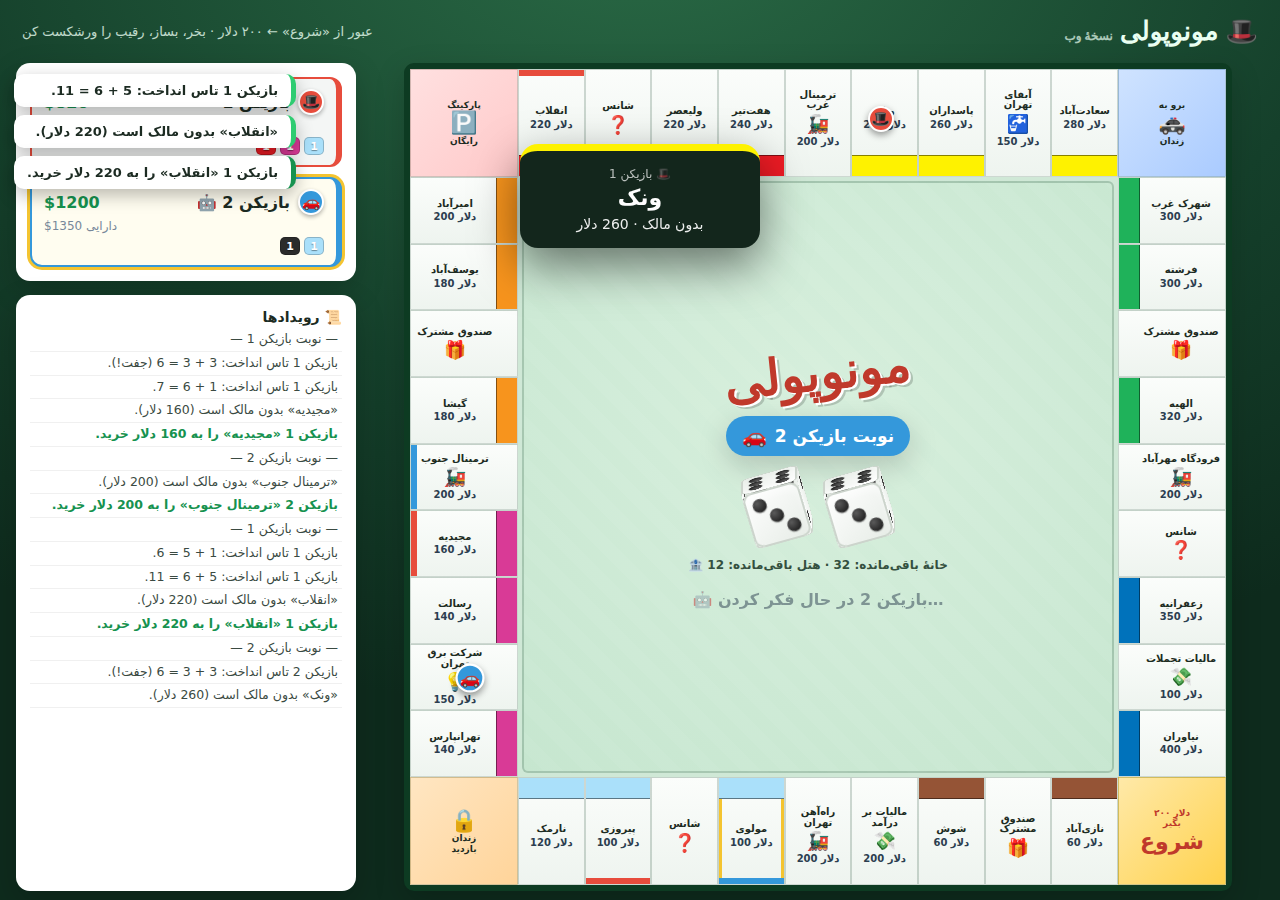
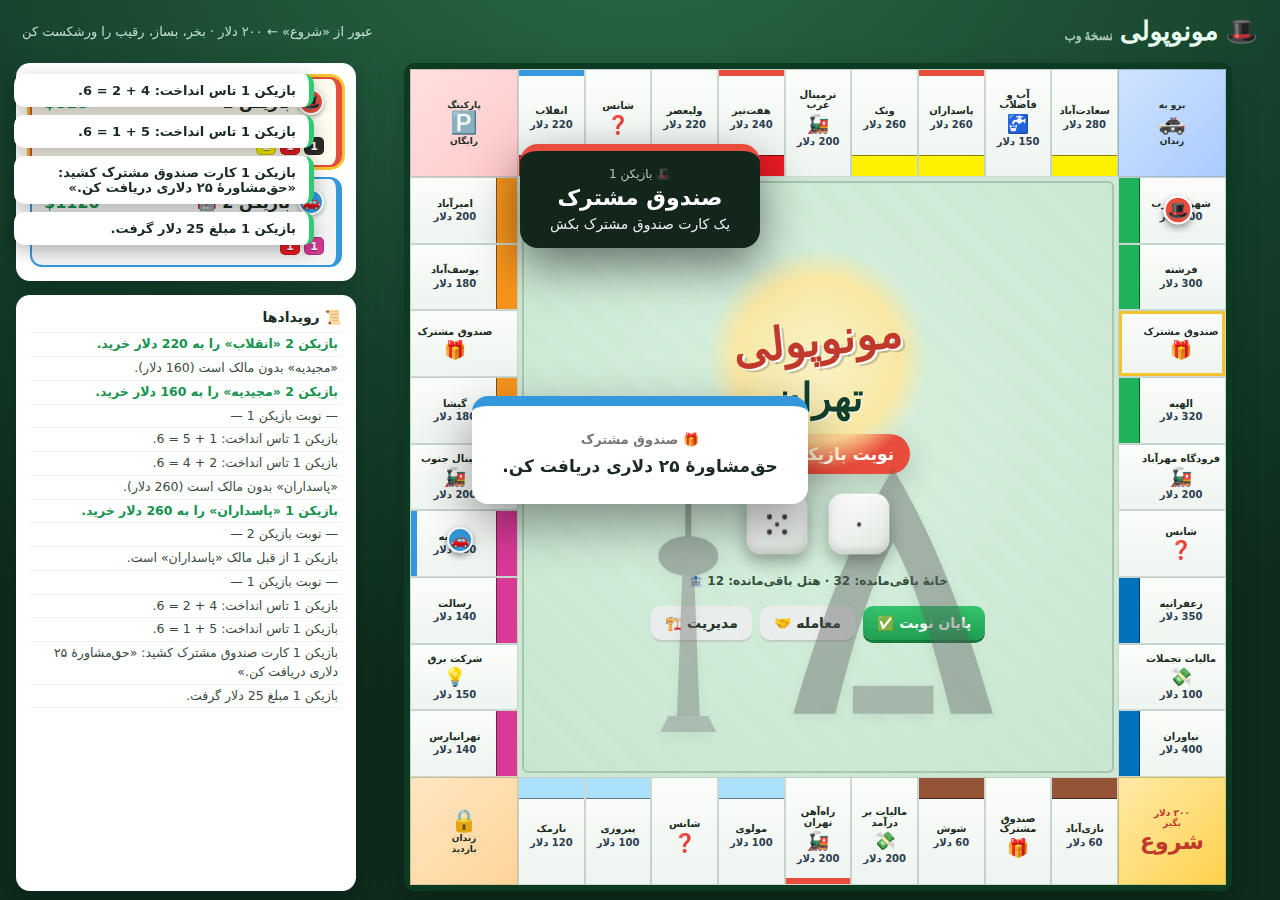
City picker + themed centre, new dice, fixed RTL tile names
- City selection: players choose an Iranian city at setup (Tehran, Isfahan,
  Shiraz, Mashhad, Tabriz). All 22 properties, 4 transport hubs and 2 utilities
  are renamed to that city's neighbourhoods, and the city-specific "advance to"
  Chance cards are kept consistent.
- Themed centre of board: each city paints its own landmark silhouettes behind
  the title (Milad/Azadi for Tehran, dome+Si-o-se-pol for Isfahan, Persepolis
  columns+Quran Gate for Shiraz, golden shrine for Mashhad, Blue Mosque+El-Goli
  for Tabriz), with a soft sun, echoing a hand-painted board.
- New dice: replaced the 3D cube with a polished 2D die that shakes and
  face-flickers while rolling then lands with a bouncy pop. The die box is now
  persistent so an in-progress roll animation is never wiped by a re-render.
- Fixed tile names: set the tile text direction to RTL so multi-word Persian
  names (e.g. "ترمینال جنوب", "فرودگاه مهرآباد") render in correct order; water
  utility icon now keyed by board index so it works for every city.

Verified headless across cities: gameplay and a 3000-turn 4-AI stress run
complete with no errors and stable invariants; dice land on the rolled value.

Claude-Session: https://claude.ai/code/session_01MWEy6JFcfn59GE8sr83A8D

diff --git a/monopoly/js/ui.js b/monopoly/js/ui.js
@@ -10,7 +10,8 @@ const UI = {
   tileEls: [],
   tileCenters: [],
   tokenEls: {},
-  pendingDiceAnim: false,
+  cityKey: 'tehran',
+  _diceIv: null,
 
   /* ---- board grid geometry -------------------------------------------- */
   cellOf(i) {
@@ -41,6 +42,7 @@ const UI = {
     this.grabRefs();
     this.buildBoard();
     this.buildTokens();
+    this.buildDiceBox();
     window.addEventListener('resize', () => { this.measure(); this.renderTokens(); });
     requestAnimationFrame(() => { this.measure(); this.renderTokens(); });
   },
@@ -90,7 +92,7 @@ const UI = {
   },
 
   tileInner(sp, i) {
-    const utilIcon = sp.name === 'آبفای تهران' ? '🚰' : '💡';
+    const utilIcon = (i === 28) ? '🚰' : '💡';   // index 28 is always the water utility
     if (sp.type === 'go') return `<div class="corner-label">۲۰۰ دلار<br>بگیر<br><span class="big">شروع</span></div>`;
     if (sp.type === 'jail') return `<div class="corner-label"><span class="big">🔒</span><br>زندان<br>بازدید</div>`;
     if (sp.type === 'freeparking') return `<div class="corner-label">پارکینگ<br><span class="big">🅿</span><br>رایگان</div>`;
@@ -256,62 +258,90 @@ const UI = {
 
   renderCenter() {
     const g = this.game;
-    const [d1, d2] = g.dice;
     const tk = TOKENS.find(t => t.id === g.player.token);
+    const city = CITIES[this.cityKey] || CITIES.tehran;
     this.el.center.innerHTML = `
+      <div class="city-scene">${this.cityScene(this.cityKey)}</div>
       <div class="brand">مونوپولی</div>
+      <div class="city-name">${city.label}</div>
       <div class="turn-banner" style="--accent:${tk.color}">
         <span class="tb-token">${tk.emoji}</span>
         <span>نوبت ${g.player.name}</span>
       </div>
-      <div class="dice" id="dice"></div>
+      <div id="dice-slot"></div>
       <div class="bank-note">🏦 خانهٔ باقیمانده: ${g.housesLeft} · هتل باقیمانده: ${g.hotelsLeft}</div>
       <div id="action-bar"></div>`;
     this.el.actions = document.getElementById('action-bar');
-    this.renderDice(this.pendingDiceAnim);
-    this.pendingDiceAnim = false;
+    // re-attach the persistent dice box (survives re-renders so a roll
+    // animation in progress is never wiped) and sync its faces
+    const slot = document.getElementById('dice-slot');
+    if (slot && this.el.diceBox) slot.appendChild(this.el.diceBox);
+    this.renderDice();
   },
 
-  /* ---- 3D dice -------------------------------------------------------- */
+  /* ---- dice ----------------------------------------------------------- */
   pipCells(n) {
     const pips = { 1:[4], 2:[0,8], 3:[0,4,8], 4:[0,2,6,8], 5:[0,2,4,6,8], 6:[0,2,3,5,6,8] }[n] || [];
     let c = '';
     for (let k = 0; k < 9; k++) c += `<i class="${pips.includes(k) ? 'on' : ''}"></i>`;
     return c;
   },
-  die3dHTML() {
-    let faces = '';
-    for (let v = 1; v <= 6; v++) faces += `<div class="face f${v}">${this.pipCells(v)}</div>`;
-    return `<div class="die3d"><div class="die3d-cube">${faces}</div></div>`;
+  buildDiceBox() {
+    this.el.diceBox = document.createElement('div');
+    this.el.diceBox.className = 'dice';
+    this.el.diceBox.innerHTML =
+      '<div class="die2d"><div class="pips"></div></div>' +
+      '<div class="die2d"><div class="pips"></div></div>';
   },
-  // rotation (deg) that brings face `v` to the front; small tilt keeps it 3D.
-  baseRot(v) {
-    const m = { 1:{x:0,y:0}, 2:{x:0,y:-90}, 3:{x:-90,y:0}, 4:{x:90,y:0}, 5:{x:0,y:90}, 6:{x:-180,y:0} }[v];
-    return { x: m.x - 16, y: m.y + 16 };
+
+  /* ---- city centre scene: iconic landmark silhouettes ----------------- */
+  LANDMARKS: {
+    milad: `<svg class="lm" viewBox="0 0 60 150"><line x1="30" y1="2" x2="30" y2="52" stroke="#4a4a4a" stroke-width="3"/><ellipse cx="30" cy="60" rx="15" ry="10" fill="#5a5a5a"/><path d="M27 70 L24 148 L36 148 L33 70 Z" fill="#6a6a6a"/><path d="M16 148 L44 148 L40 140 L20 140 Z" fill="#7a7a7a"/></svg>`,
+    azadi: `<svg class="lm" viewBox="0 0 130 150"><path d="M8 148 C28 78 48 36 65 8 C82 36 102 78 122 148 L98 148 C86 100 76 70 65 50 C54 70 44 100 32 148 Z" fill="#5a5a5a"/><rect x="42" y="132" width="46" height="16" fill="#6a6a6a"/></svg>`,
+    dome: `<svg class="lm" viewBox="0 0 150 150"><line x1="22" y1="22" x2="22" y2="146" stroke="#6a6a6a" stroke-width="7"/><circle cx="22" cy="16" r="6" fill="#6a6a6a"/><line x1="128" y1="22" x2="128" y2="146" stroke="#6a6a6a" stroke-width="7"/><circle cx="128" cy="16" r="6" fill="#6a6a6a"/><path d="M75 36 C50 60 50 110 75 132 C100 110 100 60 75 36 Z" fill="#4f8fbf"/><line x1="75" y1="36" x2="75" y2="18" stroke="#6a6a6a" stroke-width="3"/><circle cx="75" cy="15" r="4" fill="#6a6a6a"/><rect x="46" y="132" width="58" height="14" fill="#6a6a6a"/></svg>`,
+    bridge: `<svg class="lm wide" viewBox="0 0 200 80"><rect x="0" y="26" width="200" height="9" fill="#5a5a5a"/><rect x="0" y="35" width="200" height="34" fill="#6a6a6a"/><g fill="#cfe8d6">${[12,40,68,96,124,152,180].map(x=>`<path d="M${x} 69 q12 -22 24 0 Z"/>`).join('')}</g></svg>`,
+    columns: `<svg class="lm" viewBox="0 0 160 140"><rect x="6" y="128" width="148" height="10" fill="#7a7a7a"/><rect x="2" y="14" width="156" height="10" fill="#6a6a6a"/><g fill="#5a5a5a"><rect x="20" y="24" width="11" height="104"/><rect x="56" y="24" width="11" height="104"/><rect x="92" y="24" width="11" height="104"/><rect x="128" y="24" width="11" height="104"/></g></svg>`,
+    gate: `<svg class="lm" viewBox="0 0 130 140"><path d="M14 138 L14 56 C14 22 116 22 116 56 L116 138 L96 138 L96 58 C96 38 34 38 34 58 L34 138 Z" fill="#5a5a5a"/><rect x="8" y="46" width="114" height="9" fill="#6a6a6a"/></svg>`,
+    shrine: `<svg class="lm" viewBox="0 0 140 150"><line x1="112" y1="14" x2="112" y2="146" stroke="#c79a2e" stroke-width="7"/><circle cx="112" cy="9" r="5" fill="#c79a2e"/><path d="M58 146 C30 116 30 64 58 44 C86 64 86 116 58 146 Z" fill="#d4af37"/><line x1="58" y1="44" x2="58" y2="22" stroke="#c79a2e" stroke-width="3"/><circle cx="58" cy="18" r="4" fill="#c79a2e"/><rect x="34" y="136" width="52" height="12" fill="#6a6a6a"/></svg>`,
+    bluemosque: `<svg class="lm" viewBox="0 0 130 150"><rect x="22" y="22" width="86" height="126" fill="#2f5d8c"/><rect x="18" y="14" width="94" height="12" fill="#234a73"/><path d="M44 148 L44 82 C44 54 86 54 86 82 L86 148 Z" fill="#cfe8d6"/><circle cx="65" cy="40" r="9" fill="#7fb3d5"/></svg>`,
+    elgoli: `<svg class="lm wide" viewBox="0 0 170 110"><rect x="0" y="86" width="170" height="24" fill="#7fb3d5"/><rect x="66" y="44" width="38" height="44" fill="#6a6a6a"/><path d="M58 46 L85 20 L112 46 Z" fill="#5a5a5a"/><rect x="80" y="60" width="10" height="28" fill="#4a4a4a"/></svg>`,
   },
-  renderDice(animate) {
-    const host = document.getElementById('dice');
-    if (!host) return;
-    let [d1, d2] = this.game.dice;
-    d1 = d1 || 1; d2 = d2 || 1;
-    host.innerHTML = this.die3dHTML() + this.die3dHTML();
-    const cubes = host.querySelectorAll('.die3d-cube');
-    const place = (cube, v, spin) => {
-      const b = this.baseRot(v);
-      const rest = `rotateX(${b.x}deg) rotateY(${b.y}deg)`;
-      if (animate) {
-        cube.style.transition = 'none';
-        cube.style.transform = rest;
-        void cube.offsetWidth;                       // force reflow so the spin animates
-        cube.style.transition = '';
-        cube.style.transform = `rotateX(${b.x + spin}deg) rotateY(${b.y + spin}deg)`;
-      } else {
-        cube.style.transition = 'none';
-        cube.style.transform = rest;
+  cityScene(key) {
+    const city = CITIES[key] || CITIES.tehran;
+    const lms = city.landmarks.map(k => this.LANDMARKS[k] || '').join('');
+    return `<div class="scene-sun"></div><div class="scene-lms">${lms}</div>`;
+  },
+  setDie(el, v) { el.querySelector('.pips').innerHTML = this.pipCells(v); el.dataset.v = v; },
+  // sync faces to the current values (skips while an animation is running)
+  renderDice() {
+    const box = this.el.diceBox;
+    if (!box || this._diceIv) return;
+    const dice = box.querySelectorAll('.die2d');
+    this.setDie(dice[0], this.game.dice[0] || 1);
+    this.setDie(dice[1], this.game.dice[1] || 1);
+  },
+  // satisfying shake + face-flicker, then a bouncy landing on the rolled value
+  rollDiceAnimation() {
+    const box = this.el.diceBox;
+    if (!box) return;
+    const dice = box.querySelectorAll('.die2d');
+    const final = [this.game.dice[0] || 1, this.game.dice[1] || 1];
+    if (this._diceIv) clearInterval(this._diceIv);
+    dice.forEach(el => { el.classList.remove('landed'); el.classList.add('rolling'); });
+    let ticks = 0;
+    this._diceIv = setInterval(() => {
+      if (++ticks >= 9) {
+        clearInterval(this._diceIv); this._diceIv = null;
+        this.setDie(dice[0], final[0]); this.setDie(dice[1], final[1]);
+        dice.forEach(el => {
+          el.classList.remove('rolling'); el.classList.add('landed');
+          setTimeout(() => el.classList.remove('landed'), 450);
+        });
+        return;
       }
-    };
-    place(cubes[0], d1, 720);
-    place(cubes[1], d2, 1080);
+      this.setDie(dice[0], 1 + Math.floor(Math.random() * 6));
+      this.setDie(dice[1], 1 + Math.floor(Math.random() * 6));
+    }, 55);
   },
 
   /* ---- action bar (depends on phase / pending) ------------------------- */

diff --git a/monopoly/css/style.css b/monopoly/css/style.css
@@ -30,7 +30,11 @@ h1,h2,h3{margin:0 0 .4em}
   color:#c0392b;text-shadow:2px 2px 0 #fff, 4px 4px 0 rgba(0,0,0,.15);
 }
 .setup-sub{color:#667;margin:6px 0 22px}
-.setup-players{display:flex;flex-direction:column;gap:10px;margin-bottom:22px;text-align:left}
+.setup-city{display:flex;align-items:center;gap:10px;justify-content:space-between;background:#eef7f1;
+  border:1px solid #cfe7d8;border-radius:12px;padding:10px 14px;margin-bottom:16px;text-align:right}
+.setup-city label{font-weight:700;color:#2c3e50;font-size:14px}
+.setup-city select{padding:8px 12px;border:1px solid #cfd6d2;border-radius:8px;background:#fff;font-size:15px;font-weight:700;font-family:inherit}
+.setup-players{display:flex;flex-direction:column;gap:10px;margin-bottom:22px;text-align:right}
 .setup-row{display:flex;align-items:center;gap:10px;background:var(--panel-2);padding:8px 12px;border-radius:12px;transition:.2s}
 .setup-row.off{opacity:.4}
 .setup-row .p-token{font-size:24px;width:30px;text-align:center}
@@ -89,7 +93,7 @@ h1,h2,h3{margin:0 0 .4em}
 .edge-right  .tile-color{left:0;top:0;bottom:0;width:20%;border-right:1px solid #0007}
 
 .tile-body{position:absolute;inset:0;display:flex;flex-direction:column;align-items:center;justify-content:center;
-  text-align:center;padding:3px;gap:2px}
+  text-align:center;padding:3px;gap:2px;direction:rtl}     /* Persian names read right-to-left */
 /* names stay upright (player's reading view) on every edge */
 .edge-bottom .tile-body{padding-top:20%}
 .edge-top    .tile-body{padding-bottom:20%}
@@ -99,7 +103,7 @@ h1,h2,h3{margin:0 0 .4em}
 .t-name{font-size:9px;font-weight:700;line-height:1.05;letter-spacing:-.2px}
 .t-price{font-size:9px;font-weight:600;color:#2c3e50}
 .t-ic{font-size:18px}
-.corner-label{font-size:9px;font-weight:800;line-height:1.15;text-align:center;color:#1c2b22}
+.corner-label{font-size:9px;font-weight:800;line-height:1.15;text-align:center;color:#1c2b22;direction:rtl}
 .corner-label .big{font-size:22px}
 .type-go .corner-label{color:#c0392b}
 .type-go{background:linear-gradient(135deg,#ffe9a8,#ffd24d)}
@@ -138,29 +142,48 @@ h1,h2,h3{margin:0 0 .4em}
   border:2px solid #0d3b2233;margin:4px;border-radius:6px;padding:16px;text-align:center;
 }
 .brand{
-  font-family:'Vazirmatn',sans-serif;font-weight:800;font-size:clamp(26px,5.5vmin,54px);color:#c0392b;
+  position:relative;z-index:1;
+  font-family:'Vazirmatn',sans-serif;font-weight:800;font-size:clamp(24px,5vmin,48px);color:#c0392b;
   transform:rotate(-6deg);text-shadow:2px 2px 0 #fff,4px 4px 0 rgba(0,0,0,.18);letter-spacing:1px;
 }
+.city-name{position:relative;z-index:1;font-family:'Vazirmatn',sans-serif;font-weight:800;
+  font-size:clamp(20px,4.4vmin,40px);color:#13402b;margin-top:-6px;letter-spacing:1px;
+  text-shadow:1px 1px 0 #fff}
+
+/* themed city centrepiece — iconic landmark silhouettes washed behind the
+   brand/dice, like a hand-painted board */
+.city-scene{position:absolute;inset:0;z-index:0;pointer-events:none;overflow:hidden}
+.city-scene .scene-sun{position:absolute;left:50%;top:30%;transform:translate(-50%,-50%);
+  width:38%;aspect-ratio:1;border-radius:50%;
+  background:radial-gradient(circle,#fff3c4 0%,#ffe79a 52%,rgba(255,231,154,0) 70%);opacity:.85}
+.city-scene .scene-lms{position:absolute;left:50%;bottom:6%;transform:translateX(-50%);
+  display:flex;align-items:flex-end;justify-content:center;gap:6%;width:88%;opacity:.4}
+.city-scene .lm{height:min(40vmin,300px);width:auto;max-width:44%;
+  filter:drop-shadow(0 4px 6px rgba(0,0,0,.12))}
+.city-scene .lm.wide{max-width:54%}
 .turn-banner{display:flex;align-items:center;gap:8px;background:var(--accent,#333);color:#fff;
   padding:8px 16px;border-radius:30px;font-weight:700;box-shadow:var(--shadow);font-size:clamp(12px,2.4vmin,17px)}
 .tb-token{font-size:20px}
-/* ---- 3D dice -------------------------------------------------------- */
-.dice{display:flex;gap:24px;perspective:700px;padding:8px 0}
-.die3d{--d:clamp(40px,8vmin,58px);width:var(--d);height:var(--d);position:relative}
-.die3d-cube{width:100%;height:100%;position:relative;transform-style:preserve-3d;
-  transition:transform .9s cubic-bezier(.18,.7,.2,1);transform:rotateX(-20deg) rotateY(20deg)}
-.die3d .face{position:absolute;inset:0;border-radius:16%;
-  background:linear-gradient(145deg,#ffffff,#e6ece6);
-  box-shadow:inset 0 0 0 2px #ccd4cc, inset 0 6px 10px rgba(255,255,255,.6);
-  display:grid;grid-template-columns:repeat(3,1fr);grid-template-rows:repeat(3,1fr);padding:13%}
-.die3d .face i{width:100%;aspect-ratio:1;border-radius:50%;margin:auto;background:transparent}
-.die3d .face i.on{background:radial-gradient(circle at 35% 30%,#5a5a5a,#111);box-shadow:0 1px 1px rgba(0,0,0,.4)}
-.die3d .f1{transform:translateZ(calc(var(--d)/2))}
-.die3d .f6{transform:rotateY(180deg) translateZ(calc(var(--d)/2))}
-.die3d .f2{transform:rotateY(90deg)  translateZ(calc(var(--d)/2))}
-.die3d .f5{transform:rotateY(-90deg) translateZ(calc(var(--d)/2))}
-.die3d .f3{transform:rotateX(90deg)  translateZ(calc(var(--d)/2))}
-.die3d .f4{transform:rotateX(-90deg) translateZ(calc(var(--d)/2))}
+/* ---- dice ----------------------------------------------------------- */
+.dice{display:flex;gap:22px;padding:6px 0;perspective:500px}
+.die2d{width:clamp(42px,8.5vmin,60px);aspect-ratio:1;border-radius:24%;
+  background:linear-gradient(145deg,#ffffff 0%,#eef2ee 55%,#dde4dd 100%);
+  box-shadow:0 7px 16px rgba(0,0,0,.32),inset 0 2px 3px rgba(255,255,255,.9),inset 0 -4px 7px rgba(0,0,0,.13);
+  display:grid;place-items:center;padding:13%}
+.die2d .pips{width:100%;height:100%;display:grid;
+  grid-template-columns:repeat(3,1fr);grid-template-rows:repeat(3,1fr)}
+.die2d .pips i{width:64%;aspect-ratio:1;border-radius:50%;margin:auto;background:transparent}
+.die2d .pips i.on{background:radial-gradient(circle at 36% 30%,#5b5b5b,#0b0b0b);
+  box-shadow:inset 0 1px 1px rgba(255,255,255,.35),0 1px 1px rgba(0,0,0,.45)}
+.die2d.rolling{animation:diceShake .5s linear infinite}
+@keyframes diceShake{
+  0%{transform:translateY(0) rotate(-13deg)}
+  25%{transform:translateY(-9px) rotate(9deg)}
+  50%{transform:translateY(0) rotate(15deg)}
+  75%{transform:translateY(-6px) rotate(-7deg)}
+  100%{transform:translateY(0) rotate(-13deg)}}
+.die2d.landed{animation:diceLand .45s cubic-bezier(.2,1.6,.35,1)}
+@keyframes diceLand{0%{transform:scale(1.28) rotate(6deg)}55%{transform:scale(.9)}100%{transform:scale(1)}}
 .bank-note{font-size:12px;color:#34503f;font-weight:600}
 
 #action-bar{display:flex;flex-wrap:wrap;gap:8px;justify-content:center;margin-top:4px}

diff --git a/monopoly/js/data.js b/monopoly/js/data.js
@@ -148,3 +148,66 @@ const JAIL_INDEX = 10;
 const JAIL_FINE = 50;
 const MAX_HOUSES = 32;   // bank supply
 const MAX_HOTELS = 12;   // bank supply
+
+/* ============================================================================
+ * Cities — the player picks an Iranian city at the start and the 22 property
+ * spaces, 4 transport hubs and 2 utilities are renamed to that city's
+ * neighbourhoods. `landmarks` keys drive the themed centre-of-board scene.
+ * Names are ordered cheap → premium to mirror the board's price ladder.
+ * ==========================================================================*/
+const PROP_INDICES = [1, 3, 6, 8, 9, 11, 13, 14, 16, 18, 19, 21, 23, 24, 26, 27, 29, 31, 32, 34, 37, 39];
+const RAIL_INDICES = [5, 15, 25, 35];
+const UTIL_INDICES = [12, 28];           // 12 = power, 28 = water
+
+const CITIES = {
+  tehran: {
+    label: 'تهران',
+    props: ['نازیآباد', 'شوش', 'مولوی', 'پیروزی', 'نارمک', 'تهرانپارس', 'رسالت', 'مجیدیه', 'گیشا', 'یوسفآباد', 'امیرآباد', 'انقلاب', 'ولیعصر', 'هفتتیر', 'ونک', 'پاسداران', 'سعادتآباد', 'شهرک غرب', 'فرشته', 'الهیه', 'زعفرانیه', 'نیاوران'],
+    rails: ['راهآهن تهران', 'ترمینال جنوب', 'ترمینال غرب', 'فرودگاه مهرآباد'],
+    utils: ['شرکت برق', 'آب و فاضلاب'],
+    landmarks: ['milad', 'azadi'],
+  },
+  esfahan: {
+    label: 'اصفهان',
+    props: ['زینبیه', 'دارک', 'ملکشهر', 'خانه اصفهان', 'رهنان', 'جی', 'احمدآباد', 'هزارجریب', 'عباسآباد', 'کاوه', 'بزرگمهر', 'شیخ صدوق', 'وحید', 'ارتش', 'مشتاق', 'مرداویج', 'خواجو', 'جلفا', 'چهارباغ', 'سعادتآباد', 'آبشار', 'ملاصدرا'],
+    rails: ['راهآهن اصفهان', 'ترمینال کاوه', 'ترمینال صفه', 'فرودگاه شهید بهشتی'],
+    utils: ['برق منطقهای', 'آبفای اصفهان'],
+    landmarks: ['dome', 'bridge'],
+  },
+  shiraz: {
+    label: 'شیراز',
+    props: ['دروازه کازرون', 'گویم', 'کوزهگری', 'سنگ سیاه', 'لب آب', 'سعدی', 'چمران', 'زرگری', 'عفیفآباد', 'فرهنگشهر', 'اطلسی', 'ستارخان', 'بلوار حافظ', 'ارم', 'دلگشا', 'زند', 'هفت تنان', 'قصردشت', 'معالیآباد', 'قصرالدشت', 'نارنجستان', 'میرزای شیرازی'],
+    rails: ['راهآهن شیراز', 'ترمینال کاراندیش', 'ترمینال امیرکبیر', 'فرودگاه دستغیب'],
+    utils: ['برق فارس', 'آبفای شیراز'],
+    landmarks: ['columns', 'gate'],
+  },
+  mashhad: {
+    label: 'مشهد',
+    props: ['طبرسی', 'گلشهر', 'طلاب', 'قاسمآباد', 'کوی سیدی', 'وکیلآباد', 'فلسطین', 'معلم', 'سناباد', 'کوهسنگی', 'احمدآباد', 'سجاد', 'هاشمیه', 'هفت تیر', 'فرامرز', 'پیروزی', 'بهارستان', 'صیاد شیرازی', 'الهیه', 'رضاشهر', 'سیدرضی', 'امام رضا'],
+    rails: ['راهآهن مشهد', 'ترمینال امام رضا', 'ترمینال معراج', 'فرودگاه هاشمینژاد'],
+    utils: ['برق خراسان', 'آبفای مشهد'],
+    landmarks: ['shrine', 'dome'],
+  },
+  tabriz: {
+    label: 'تبریز',
+    props: ['آخماقیه', 'مارالان', 'خطیب', 'قراملک', 'سیلاب', 'آبرسان', 'منظریه', 'ولیعصر', 'باغمیشه', 'رشدیه', 'یاغچیان', 'ائلگلی', 'شهرک نور', 'زعفرانیه', 'منصور', 'لاله', 'چایکنار', 'گلکار', 'کوی فردوس', 'بهارستان', 'شریعتی', 'ابوریحان'],
+    rails: ['راهآهن تبریز', 'ترمینال مرکزی', 'ترمینال آذربایجان', 'فرودگاه تبریز'],
+    utils: ['برق آذربایجان', 'آبفای تبریز'],
+    landmarks: ['bluemosque', 'elgoli'],
+  },
+};
+
+// Rewrite the board (and the city-specific Chance cards) for the chosen city.
+function applyCity(key) {
+  const c = CITIES[key] || CITIES.tehran;
+  PROP_INDICES.forEach((idx, k) => { BOARD[idx].name = c.props[k]; });
+  RAIL_INDICES.forEach((idx, k) => { BOARD[idx].name = c.rails[k]; });
+  UTIL_INDICES.forEach((idx, k) => { BOARD[idx].name = c.utils[k]; });
+  // keep the "advance to <place>" cards consistent with the new names
+  CHANCE.forEach(card => {
+    if (card.action === 'move:24') card.text = `به ${BOARD[24].name} برو.`;
+    if (card.action === 'move:11') card.text = `به ${BOARD[11].name} برو.`;
+    if (card.action === 'move:5')  card.text = `سفری به ${BOARD[5].name} برو.`;
+    if (card.action === 'move:39') card.text = `به ${BOARD[39].name} برو.`;
+  });
+}

diff --git a/monopoly/js/main.js b/monopoly/js/main.js
@@ -29,6 +29,12 @@ const Controller = {
       <div class="setup-card">
         <div class="setup-brand">مونوپولی</div>
         <p class="setup-sub">بازی کلاسیک خرید و فروش املاک · با تمام قواعد</p>
+        <div class="setup-city">
+          <label>🏙 در کدام شهر ایران بازی میکنی؟</label>
+          <select id="city-select">
+            ${Object.keys(CITIES).map(k => `<option value="${k}">${CITIES[k].label}</option>`).join('')}
+          </select>
+        </div>
         <div class="setup-players">${rows.join('')}</div>
         <button class="act primary big" id="start-btn">▶ شروع بازی</button>
         <details class="rules-peek"><summary>راهنما / قواعد گنجاندهشده</summary>
@@ -62,6 +68,11 @@ const Controller = {
     });
     if (cfgs.length < 2) { alert('حداقل به ۲ بازیکن نیاز است.'); return; }
 
+    // apply the chosen city's neighbourhood names + landmarks
+    const cityKey = document.getElementById('city-select').value;
+    applyCity(cityKey);
+    UI.cityKey = cityKey;
+
     document.getElementById('setup').style.display = 'none';
     document.getElementById('game').style.display = 'grid';
     UI.grabRefs();   // wire log target before the game constructor logs
@@ -90,9 +101,9 @@ const Controller = {
 
   /* ---- human actions --------------------------------------------------- */
   humanRoll() {
-    UI.pendingDiceAnim = true;
     this.game.rollDice();
     UI.render();
+    UI.rollDiceAnimation();
   },
 
   submitTrade(offer) {
@@ -128,9 +139,9 @@ const Controller = {
     if (g.phase === 'preroll') {
       if (p.inJail) return this.aiJail();
       this.aiBuild();
-      UI.pendingDiceAnim = true;
       this.game.rollDice();
       UI.render();
+      UI.rollDiceAnimation();
     } else if (g.phase === 'postroll') {
       this.aiBuild();
       this.game.endTurn();
@@ -146,9 +157,9 @@ const Controller = {
     UI.render();
     if (!p.inJail) { this.aiBuild(); }
     // roll (either to move after paying, or to try doubles)
-    UI.pendingDiceAnim = true;
     g.rollDice();
     UI.render();
+    UI.rollDiceAnimation();
   },
 
   aiBuy() {

diff --git a/monopoly/README.md b/monopoly/README.md
@@ -3,12 +3,17 @@
 یک بازی کامل مونوپولی مبتنی بر مرورگر، ساختهشده با **HTML، CSS و JavaScript خالص** —
 بدون هیچ مرحلهٔ build و بدون وابستگی. کافی است `index.html` را باز کنی.
 
-رابط کاربری کاملاً **فارسی و راستبهچپ (RTL)** است و خانههای تخته با نام
-**محلههای تهران** (نازیآباد، مولوی، تهرانپارس، ونک، الهیه، زعفرانیه، نیاوران و …) جایگزین شدهاند.
+رابط کاربری کاملاً **فارسی و راستبهچپ (RTL)** است.
 
-امکانات تجربهٔ کاربری: **تاس سهبعدی متحرک**، **پاپآپ نام و صاحبِ هر خانه** هنگام فرود
-(۳ ثانیه)، **پاپآپ رویدادها در نوبت بازیکن انسانی**، **پاپآپ اعلام برنده** در پایان بازی،
-و **نام خانهها بهصورت صاف و خوانا** (نه وارونه) در هر چهار ضلع تخته.
+**انتخاب شهر:** در شروع بازی، شهر ایرانی موردنظر را انتخاب میکنی
+(**تهران، اصفهان، شیراز، مشهد، تبریز**) و خانههای تخته با **محلههای همان شهر** و
+ایستگاهها/فرودگاهها و خدماتش نامگذاری میشوند. وسط تخته هم **بناهای نمادین همان شهر**
+نقش میبندد (برج میلاد و آزادی برای تهران، سیوسهپل و گنبد برای اصفهان، تختجمشید و
+دروازهٔ قرآن برای شیراز، گنبد طلایی حرم برای مشهد، مسجد کبود و ائلگلی برای تبریز).
+
+امکانات تجربهٔ کاربری: **تاس متحرک و جذاب** (با لرزش و فرودِ فنری)، **پاپآپ نام و صاحبِ
+هر خانه** هنگام فرود (۳ ثانیه)، **پاپآپ رویدادها در نوبت بازیکن انسانی**،
+**پاپآپ اعلام برنده** در پایان بازی، و **نام خانهها بهصورت صاف و خوانا** (نه وارونه).
 
 ![پیشنمایش](preview.png)
 
